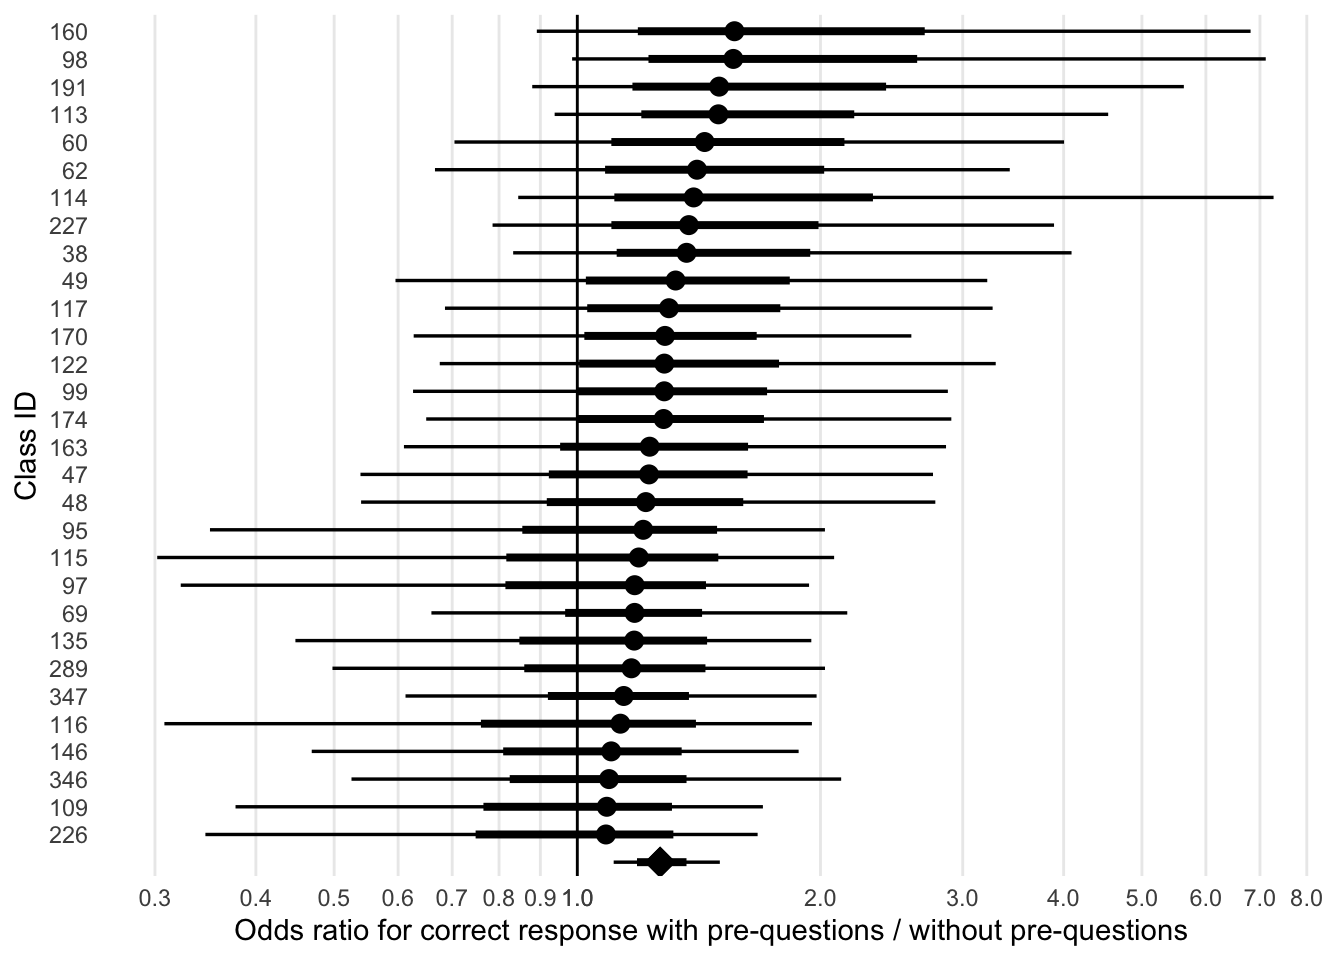
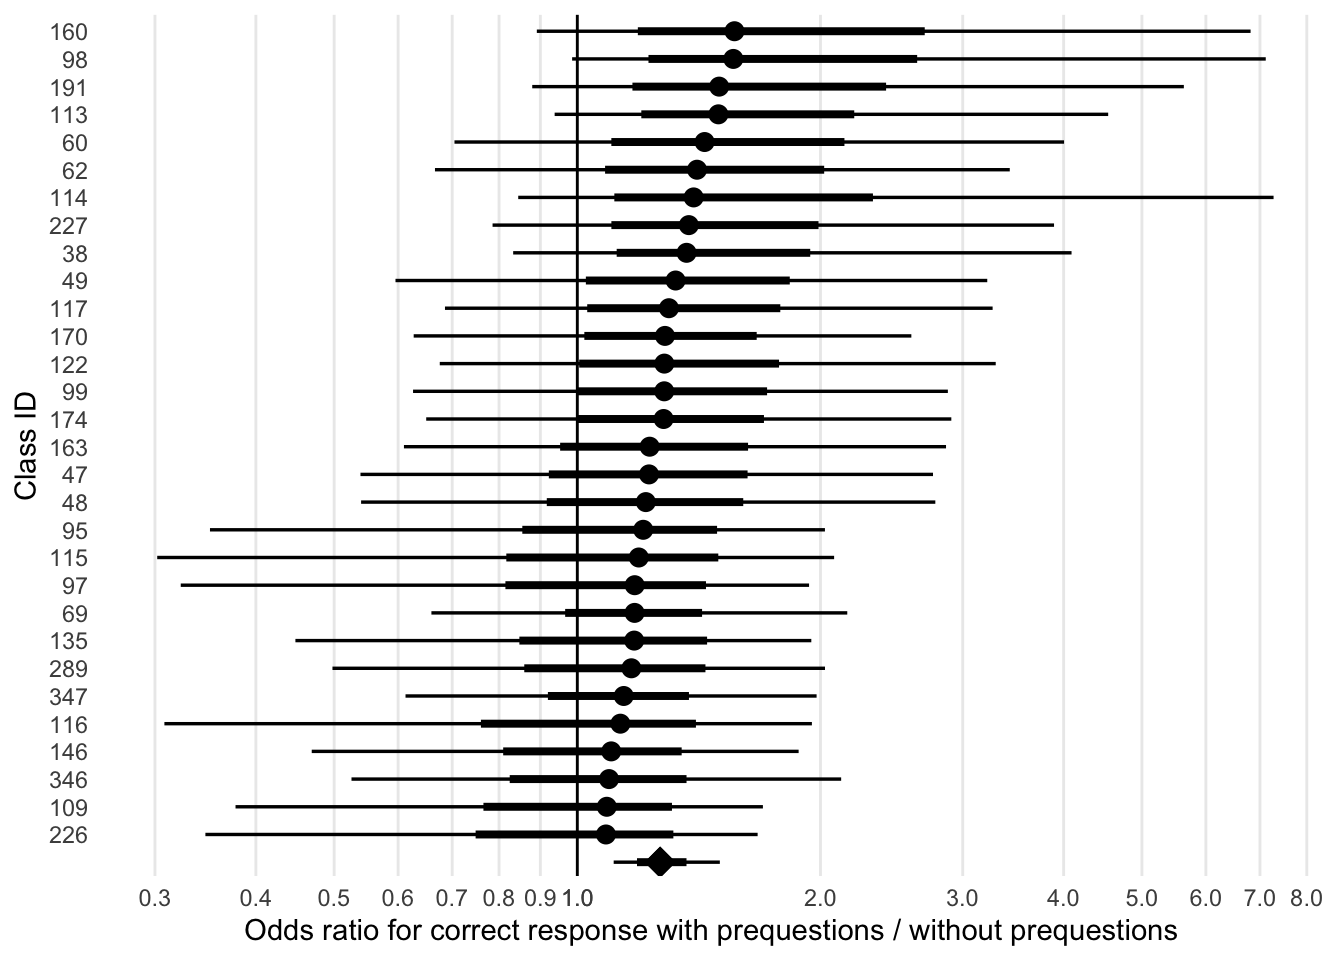
Making todo list progress

Changed region(s): [[0.1875, 0.9375, 0.5625, 1.0], [0.7812, 0.9375, 0.875, 1.0]]

diff --git a/analysis.html b/analysis.html
@@ -99,9 +99,34 @@ Figure&nbsp;2: Model estimates of the benefit of prequestions for each class, sh
 </section>
 <section id="moderators" class="level1">
 <h1>Moderators</h1>
-<section id="exposure-order" class="level2">
-<h2 class="anchored" data-anchor-id="exposure-order">Exposure order</h2>
-<p>Note taking for myself: the idea here is that there are different assignments in each class, and exposure order is basically which assignment people got. So wouldn’t we expect 0 fixed effect, since there’s no reason to expect the first assignments to be systematically different from the second assignments across classes? Should this be a random class-level effect?</p>
+<section id="class-level" class="level2">
+<h2 class="anchored" data-anchor-id="class-level">Class Level</h2>
+<section id="exposure-order" class="level3">
+<h3 class="anchored" data-anchor-id="exposure-order">Exposure order</h3>
+<div class="cell">
+<div class="cell-output cell-output-stdout">
+<pre><code>                                                                   Estimate
+Intercept                                                      1.1007931800
+conditionprequestions                                          0.2439874680
+exposure_orderprequestions_then_control                       -0.0013233325
+conditionprequestions:exposure_orderprequestions_then_control -0.0003760324
+                                                               Est.Error
+Intercept                                                     0.20413188
+conditionprequestions                                         0.08764960
+exposure_orderprequestions_then_control                       0.10924918
+conditionprequestions:exposure_orderprequestions_then_control 0.08274663
+                                                                     Q2.5
+Intercept                                                      0.69600872
+conditionprequestions                                          0.08246071
+exposure_orderprequestions_then_control                       -0.21196251
+conditionprequestions:exposure_orderprequestions_then_control -0.16016921
+                                                                  Q97.5
+Intercept                                                     1.5024016
+conditionprequestions                                         0.4243475
+exposure_orderprequestions_then_control                       0.2181863
+conditionprequestions:exposure_orderprequestions_then_control 0.1622860</code></pre>
+</div>
+</div>
 <div class="cell">
 <div class="cell-output-display">
 <div id="fig-overall-forest-plot-with-exposure-order" class="quarto-float quarto-figure quarto-figure-center anchored">
@@ -117,8 +142,6 @@ Figure&nbsp;3: Model estimates of the benefit of prequestions for each class, ta
 </div>
 </div>
 </section>
-<section id="class-level" class="level2">
-<h2 class="anchored" data-anchor-id="class-level">Class Level</h2>
 <section id="number-of-assignments" class="level3">
 <h3 class="anchored" data-anchor-id="number-of-assignments">Number of Assignments</h3>
 <div class="cell">
@@ -141,14 +164,22 @@ conditionprequestions:nbr_other_assessments -0.007988168 0.007809536</code></pre
 <h2 class="anchored" data-anchor-id="student-level">Student Level</h2>
 <section id="grade-level" class="level3">
 <h3 class="anchored" data-anchor-id="grade-level">Grade Level</h3>
-<p>Question about this one: we can’t nest this in classes, right? Because there are classes with all one grade level? And we’re more interested in how this behaves at the class level?</p>
 <div class="cell">
 <div class="cell-output cell-output-stdout">
-<pre><code>                              Estimate  Est.Error        Q2.5      Q97.5
-Intercept                   0.59011502 0.57525929 -0.54440694 1.72537011
-conditionprequestions       0.04522061 0.26015033 -0.46550282 0.56389167
-level                       0.04083317 0.04255271 -0.04250762 0.12478853
-conditionprequestions:level 0.01465074 0.01989930 -0.02455521 0.05482659</code></pre>
+<pre><code>                                           Estimate  Est.Error       Q2.5
+Intercept                                1.22418678 0.22602471  0.7816586
+conditionprequestions                    0.25644380 0.08321822  0.1106517
+levelhighschool                         -0.75895600 0.29249517 -1.3430223
+levelmiddleschool                        0.03421185 0.37527890 -0.7053774
+conditionprequestions:levelhighschool   -0.23454181 0.17090923 -0.5879975
+conditionprequestions:levelmiddleschool  0.13120626 0.20819988 -0.2818291
+                                              Q97.5
+Intercept                                1.67284359
+conditionprequestions                    0.43857778
+levelhighschool                         -0.18544938
+levelmiddleschool                        0.78148001
+conditionprequestions:levelhighschool    0.08498729
+conditionprequestions:levelmiddleschool  0.53287119</code></pre>
 </div>
 </div>
 </section>
@@ -179,7 +210,6 @@ conditionprequestions:in_major 0.06878901 0.1459336 -0.21320920 0.3674695</code>
 </section>
 <section id="prequestion-score" class="level3">
 <h3 class="anchored" data-anchor-id="prequestion-score">Prequestion Score</h3>
-<p><em>Question: what does it mean to get prequestion score in control condition</em></p>
 <div class="cell">
 <div class="cell-output cell-output-stdout">
 <pre><code>                                          Estimate Est.Error       Q2.5
@@ -392,32 +422,30 @@ conditionprequestions:preq_difficulty 0.5688507</code></pre>
 </section>
 </section>
 </section>
-<section id="notes-misc" class="level1">
-<h1>notes / misc</h1>
-<section id="ben-questions" class="level2">
-<h2 class="anchored" data-anchor-id="ben-questions">ben questions</h2>
-<ul>
-<li><p>priors for model?</p></li>
-<li><p>exposure order moderator</p></li>
-<li><p>moderators as main effects or interactions or both?</p></li>
+<section id="todo-list" class="level1">
+<h1>TODO list</h1>
+<ul class="task-list">
+<li><label><input type="checkbox" checked="">Figure 1: Fix spelling of “proption”</label></li>
+<li><label><input type="checkbox" checked="">Figure 3: “pre-questions” -&gt; “prequestions” (for consistency)</label></li>
+<li><label><input type="checkbox">On one or both figures, add to y-axis in addition to class id: N, pct correct prequestions, pct correct control, {any others}</label></li>
+<li><label><input type="checkbox">Make pretty for publication</label></li>
+<li><label><input type="checkbox" checked="">Run a model where exposure order is a fixed effect – we anticipate that there will be no effect, and that this will provide support for our decision to include exposure order as a class-level random effect</label></li>
+<li><label><input type="checkbox" checked="">Change the “Level” outcome to a categorical variable: level %in% c(6,7,8) ~ “middle school” level %in% c(9,10,11,12) ~ “high school” (else) true ~ “college”</label></li>
+<li><label><input type="checkbox" checked="">Rerun grade level model</label></li>
+<li><label><input type="checkbox" checked="">Use the priors from https://osf.io/5atq3</label></li>
+<li><label><input type="checkbox" checked="">Can you please add the component to the project site at: https://osf.io/t5ma3/? – I don’t want to accidentally set things up wrong.</label></li>
+<li><label><input type="checkbox">Upload model fits to OSF</label></li>
+<li><label><input type="checkbox">Simple models where “Percentage of video viewed” and “Did the student start the video at all?” are the outcomes (DVs), with condition as the IV and no interaction terms.</label></li>
+<li><label><input type="checkbox">Limit to only those students who did initiate playback, and re-run the simple model above, where “Percentage of video viewed” is the DV and condition is the IV.</label></li>
+<li><label><input type="checkbox">Models where “Did the student start the video at all?” is the DV, and where we include condition X moderator interactions. For these, it doesn’t really make sense to include any exposure-level interaction terms regarding the video (e.g., duration, was the question answered) because students didn’t watch at least one video, but minimally we should measure the interaction with:</label>
+<ul class="task-list">
+<li><label><input type="checkbox">Pretest</label></li>
+<li><label><input type="checkbox">Prequestion score</label></li>
+<li><label><input type="checkbox">In Major</label></li>
+<li><label><input type="checkbox">Grade level</label></li>
+<li><label><input type="checkbox">Submission time</label></li>
+</ul></li>
 </ul>
-<p>Fit class-level moderators using the model above, replacing exposure_order with class-level moderator.</p>
-<p>Use a different model for participant-level moderators.</p>
-<p>For assignment-level moderators, use assignment ID not nested in classes? Because there are only two assignments per class, nesting seems unhelpful. Instead allow for class-level intercept?</p>
-<p>Also fit a model where the outcome is whether/how much of the video they watch. Whether = &gt; 5% of the video. Prediction is that prequestions will affect whether students watch the video.</p>
-<hr>
-<p>I also wrote a script to organize everything.&nbsp; As you know, I’ve felt uncomfortable with the piss poor documentation I provided about the ManyClasses2 moderators.&nbsp; So here (attached, and also in the ManyClasses 2 folder in Dropbox), you’ll find a script that grabs everything from OSF and organizes it into four different data frames:</p>
-<ul>
-<li><p><strong>mod_class</strong>: Moderators at the class-level (30 obs) - key is course_id</p></li>
-<li><p><strong>mod_exposure</strong>: Moderators at the exposure-level (60 obs; exposures are analogous to but distinct from “periods” in a repeated-measures design; in any case, here there are two “exposures” per class in this study) - keys are course_id + exposure</p></li>
-<li><p><strong>mod_student</strong>: Moderators at the student-level (1571 obs) - key is participant_id</p></li>
-<li><p><strong>mod_submission</strong>: Moderators at the level of each student’s interactions with a treatment (3142 obs; two observations per student, one for each exposure)</p></li>
-</ul>
-<p>I hope this makes moderator analyses super-easy!&nbsp;</p>
-<p>Note: Right now we only have one moderator at the class-level (the number of other graded assessments in the course).&nbsp; Obviously we could also do analyses on consent rate, enrollment, semester, institution, etc…&nbsp; But these are atheoretical, and we already understand class-level moderators to be underpowered, so I’ve not added them.&nbsp; If you think I should add ’em to mod_class, just let me know.</p>
-<p>Appreciatively,</p>
-<p>Ben</p>
-</section>
 </section>
 
 </main>
